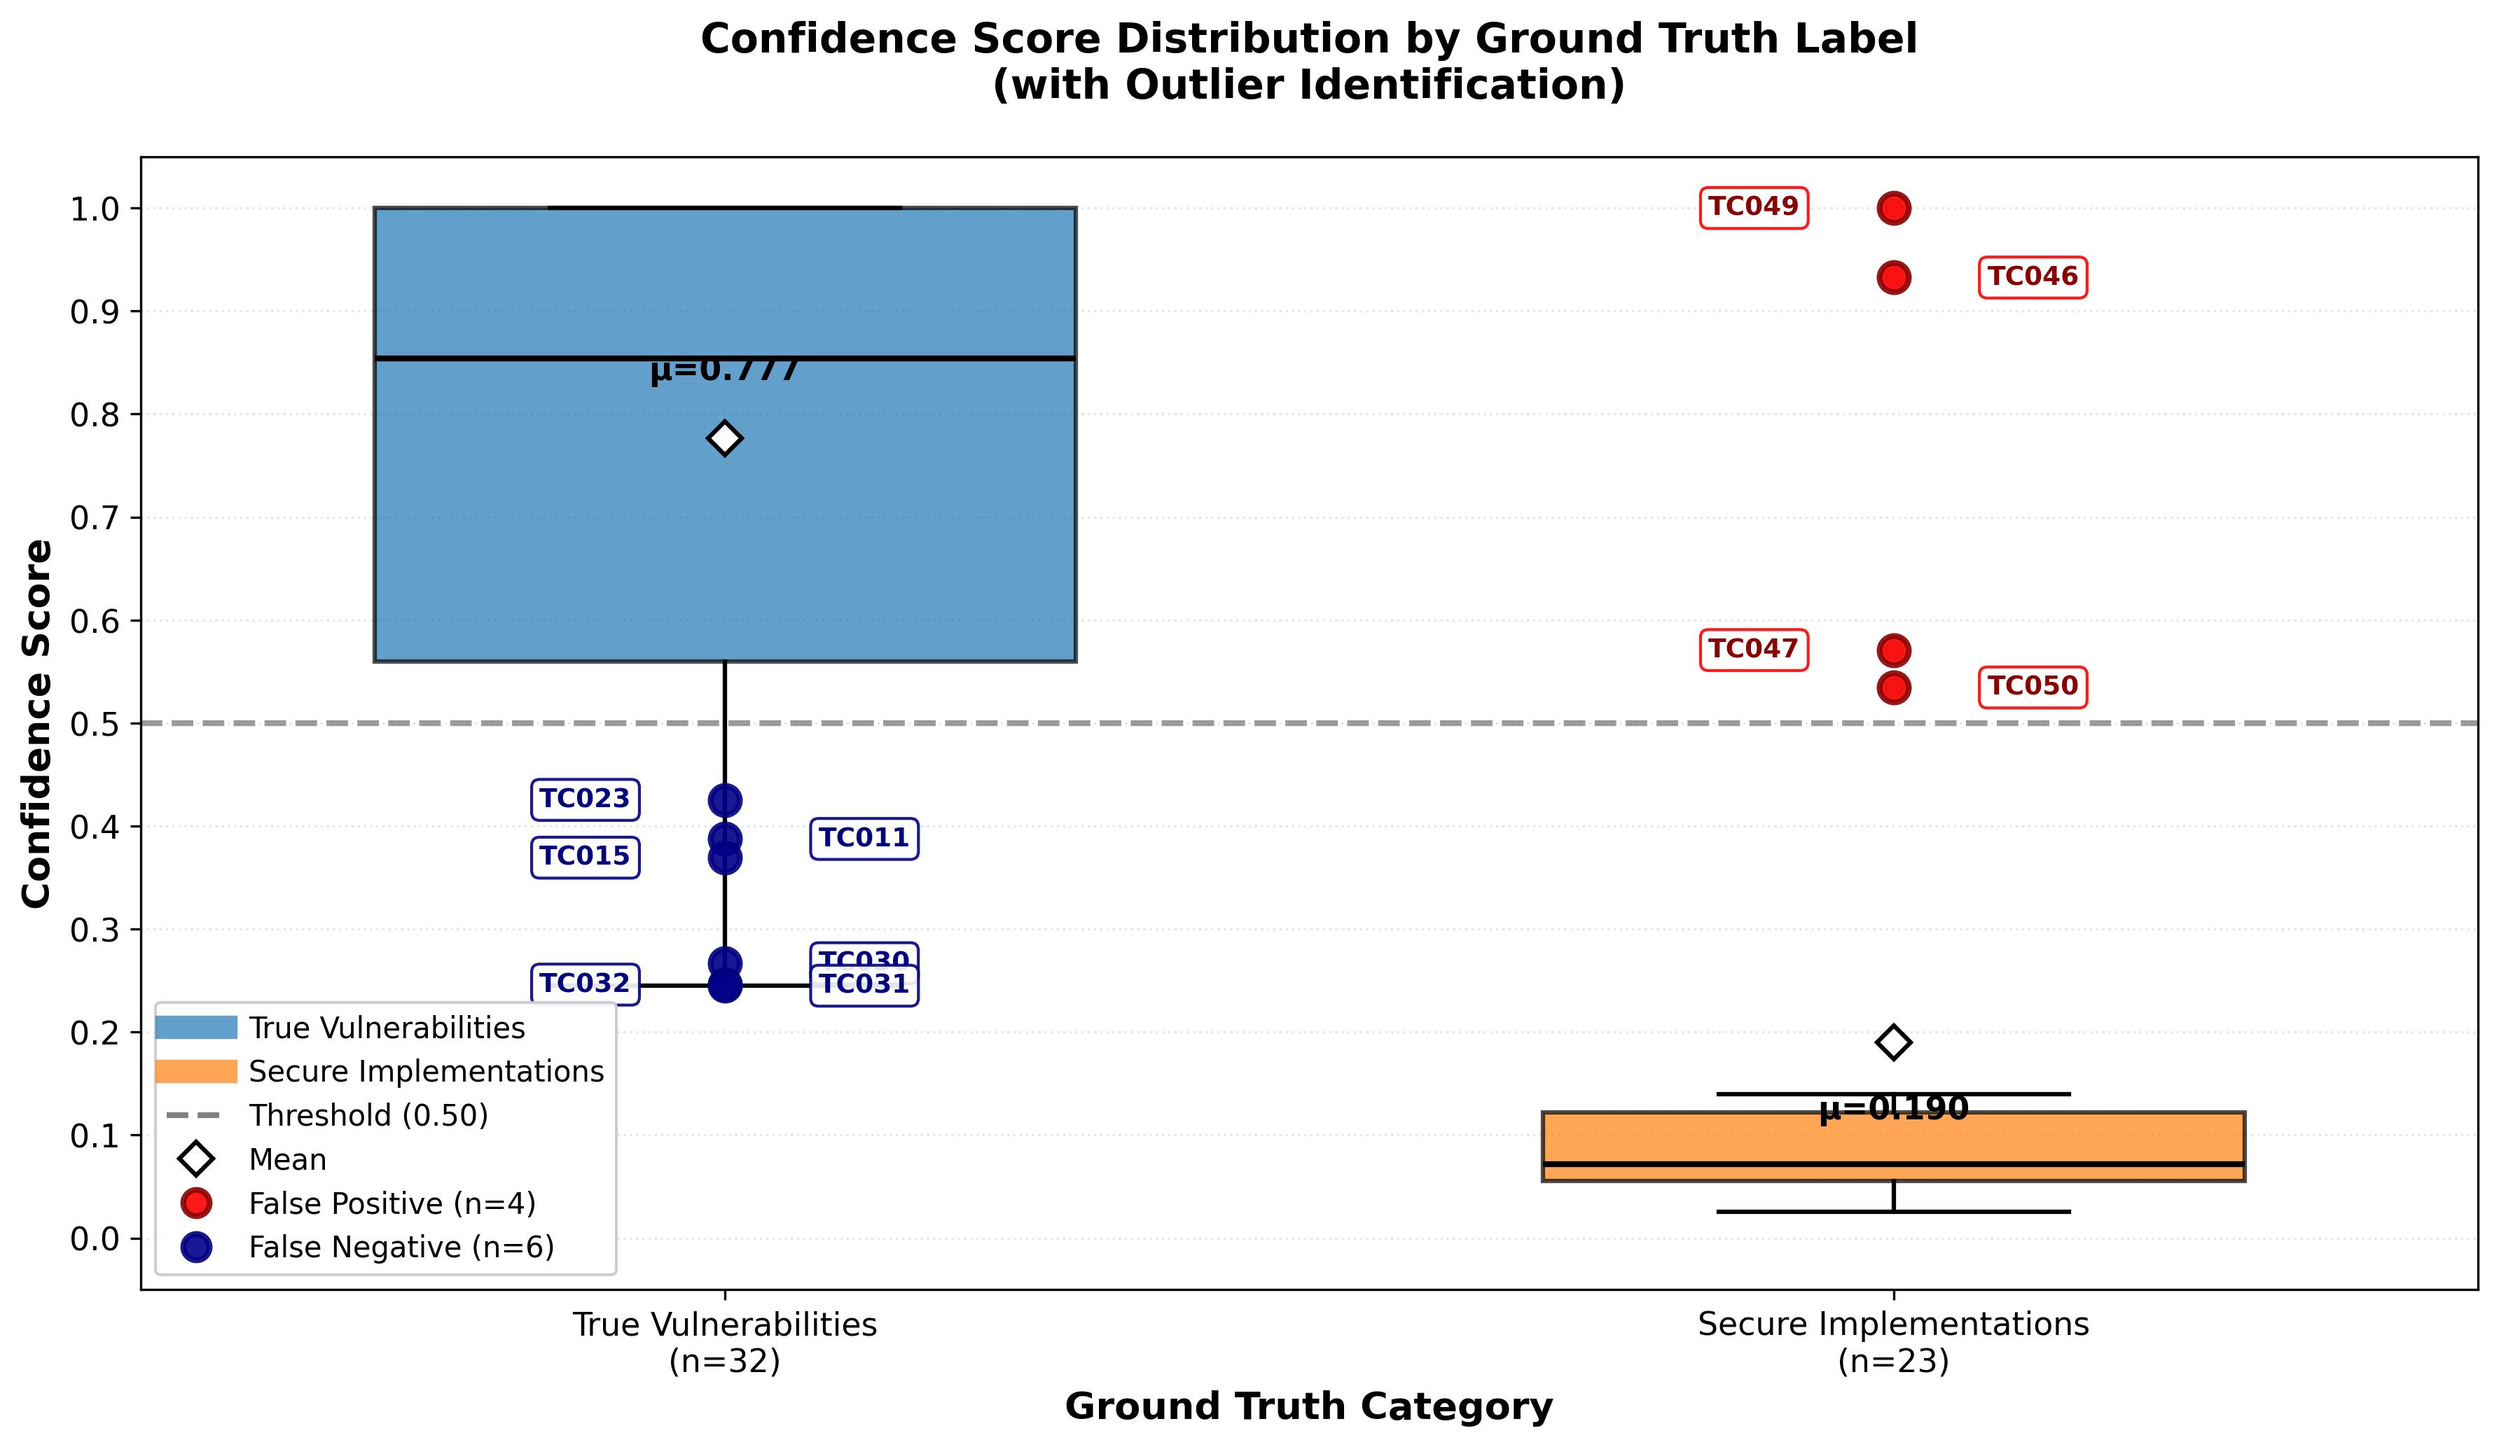
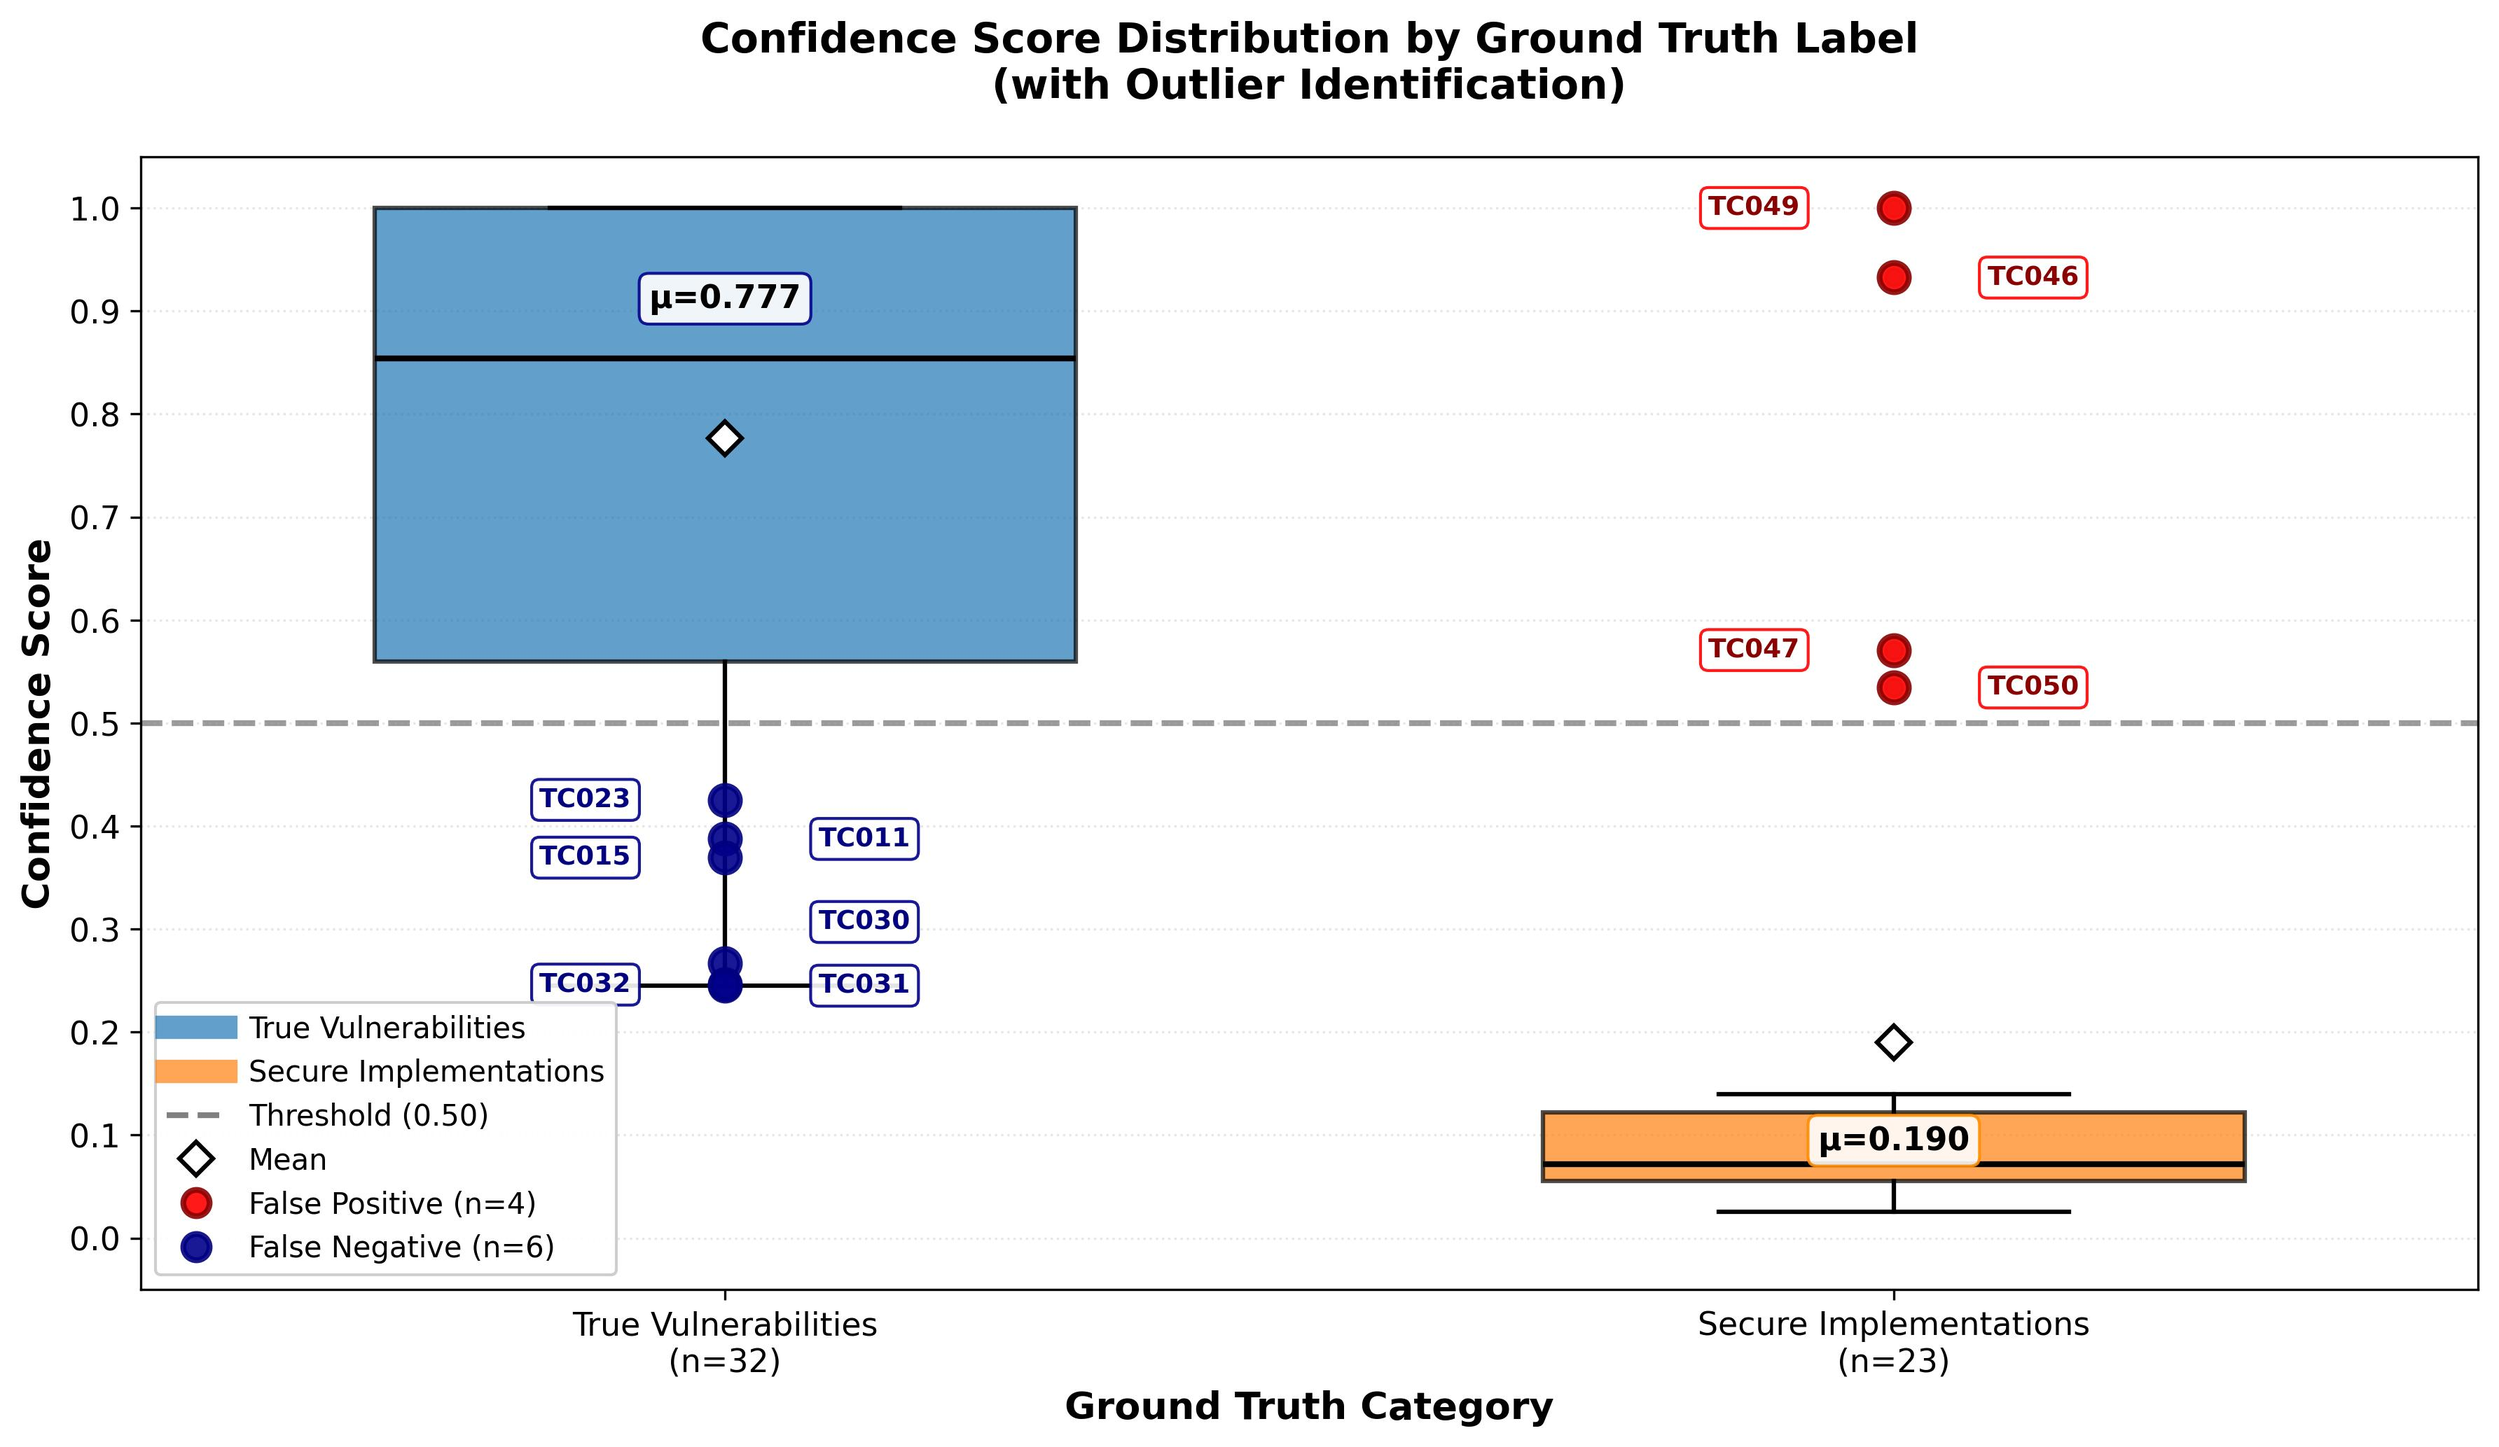
Confidence_boxplot

Changed region(s): [[0.2489, 0.1858, 0.3422, 0.2787], [0.7155, 0.7431, 0.8089, 0.805], [0.3111, 0.6193, 0.3733, 0.6812]]

diff --git a/Confidence_boxplot.py b/Confidence_boxplot.py
@@ -23,19 +23,6 @@ false_positives = true_negatives_df[true_negatives_df['Confidence Score'] > 0.50
 # False Negatives: True Vulnerabilities with confidence < 0.50
 false_negatives = true_positives_df[true_positives_df['Confidence Score'] < 0.50]
 
-print("="*70)
-print("OUTLIER IDENTIFICATION")
-print("="*70)
-print(f"\n🚨 False Positives (Secure → High Confidence): {len(false_positives)} cases")
-if len(false_positives) > 0:
-    for idx, row in false_positives.iterrows():
-        print(f"   {row['Test_ID']}: confidence={row['Confidence Score']:.4f}")
-
-print(f"\n⚠  False Negatives (Vulnerable → Low Confidence): {len(false_negatives)} cases")
-if len(false_negatives) > 0:
-    for idx, row in false_negatives.iterrows():
-        print(f"   {row['Test_ID']}: confidence={row['Confidence Score']:.4f}")
-
 # ============================================================================
 # Calculate Statistics
 # ============================================================================
@@ -47,9 +34,6 @@ tn_median = np.median(true_negatives)
 print(f"\n{'='*70}")
 print("DISTRIBUTION STATISTICS")
 print("="*70)
-print(f"True Vulnerabilities: Mean={tp_mean:.4f}, Median={tp_median:.4f}, n={len(true_positives)}")
-print(f"Secure Implementations: Mean={tn_mean:.4f}, Median={tn_median:.4f}, n={len(true_negatives)}")
-print(f"Confidence Gap: {tp_mean - tn_mean:.4f}")
 
 # ============================================================================
 # Create Box Plot with Journal Color Scheme
@@ -87,11 +71,17 @@ bp['boxes'][1].set_alpha(0.7)
 ax.axhline(y=0.50, color='gray', linestyle='--', linewidth=2, 
         label='Classification Threshold (0.50)', alpha=0.8, zorder=1)
 
-# Add mean value annotations
-ax.text(1, tp_mean + 0.05, f'μ={tp_mean:.3f}', 
-        ha='center', va='bottom', fontsize=11, fontweight='bold')
-ax.text(2, tn_mean - 0.05, f'μ={tn_mean:.3f}',  # Moved down to avoid overlap
-        ha='center', va='top', fontsize=11, fontweight='bold')
+# Left side (True Positives): Move UP to clear the blue box
+ax.text(1, tp_mean + 0.12, f'μ={tp_mean:.3f}', 
+        ha='center', va='bottom', fontsize=11, fontweight='bold',
+        bbox=dict(boxstyle='round,pad=0.3', facecolor='white', 
+                edgecolor='darkblue', alpha=0.9))
+
+# Right side (True Negatives): Move DOWN to clear the orange box
+ax.text(2, tn_mean - 0.08, f'μ={tn_mean:.3f}', 
+        ha='center', va='top', fontsize=11, fontweight='bold',
+        bbox=dict(boxstyle='round,pad=0.3', facecolor='white', 
+                edgecolor='darkorange', alpha=0.9))
 
 # ============================================================================
 # Annotate FALSE POSITIVES (Red markers with TCID labels)
@@ -146,8 +136,13 @@ for i, (idx, row) in enumerate(fn_sorted.iterrows()):
         label_x = 1.08
         label_ha = 'left'
     
+    if tcid == 'TC030':
+        label_y = conf + 0.04  # Move up by 0.04 units
+    else:
+        label_y = conf  # Keep original position
+    
     # Add TCID label
-    ax.text(label_x, conf, f'{tcid}', 
+    ax.text(label_x, label_y, f'{tcid}', 
         fontsize=9, color='navy', 
         weight='bold', ha=label_ha, va='center',
         bbox=dict(boxstyle='round,pad=0.3', 
@@ -224,13 +219,3 @@ summary_stats = pd.DataFrame({
 
 summary_stats.to_csv('C:/Users/jiani/Desktop/Degree Project/2DV50E/outputs/Experiment_1/confidence_summary_statistics.csv', index=False)
 print(f"✅ Summary statistics saved: C:/Users/jiani/Desktop/Degree Project/2DV50E/outputs/Experiment_1/confidence_summary_statistics.csv")
-
-print("\n" + "="*70)
-print("Distribution Summary:")
-print("="*70)
-print(summary_stats.to_string(index=False))
-print("\n" + "="*70)
-print(f"Total Outliers: {len(false_positives) + len(false_negatives)}")
-print(f"  - False Positives: {len(false_positives)}")
-print(f"  - False Negatives: {len(false_negatives)}")
-print("="*70)
